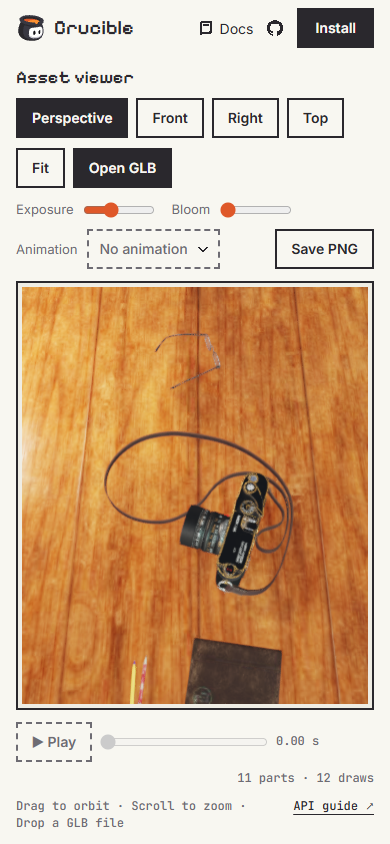
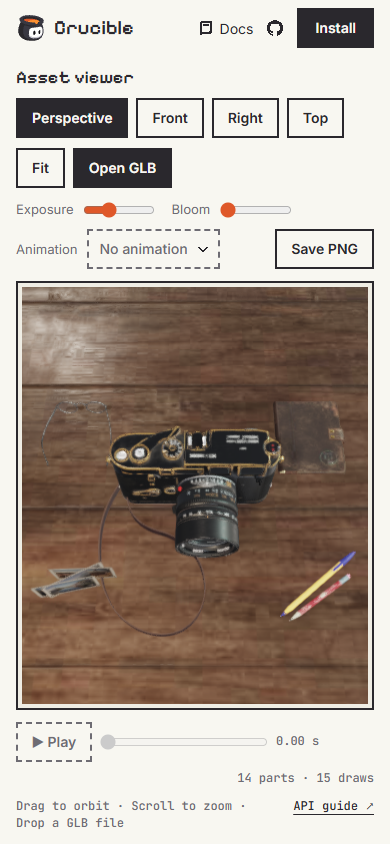
Round 2 stills for the desk flat lay (#2822)

diff --git a/NOTES.md b/NOTES.md
@@ -3,7 +3,7 @@
 Stills of the real asset viewer page (`/assets.html`), headless Chrome on the GPU, 4 samples: `assets/deskC-desktop.png` (1440x900), `assets/deskC-phone.png` (390x844).
 
 Bytes (old to new):
-- demo model: `treasure-chest.glb` 972,316 -> `desk-flat-lay.glb` 3,849,660 (textures about 2.2 MB, geometry about 1.6 MB; table and camera 1024 px, props 512 px, JPEG quality 72; the spectacles' alpha texture stays PNG)
+- demo model: `treasure-chest.glb` 972,316 -> `desk-flat-lay.glb` 3,834,312 (table and camera 1024 px, props 512 px, JPEG quality 72; the spectacles alpha texture stays PNG)
 - sky: `kloofendal_48d_partly_cloudy_puresky_1k.hdr` (kept, used for files you open) plus new `kloofendal_28d_misty_puresky_1k.hdr` 1,235,831
 - the first desk C candidate was 4,862,168 bytes with a room, window, plant and eight props; this one has no room and four props
 
